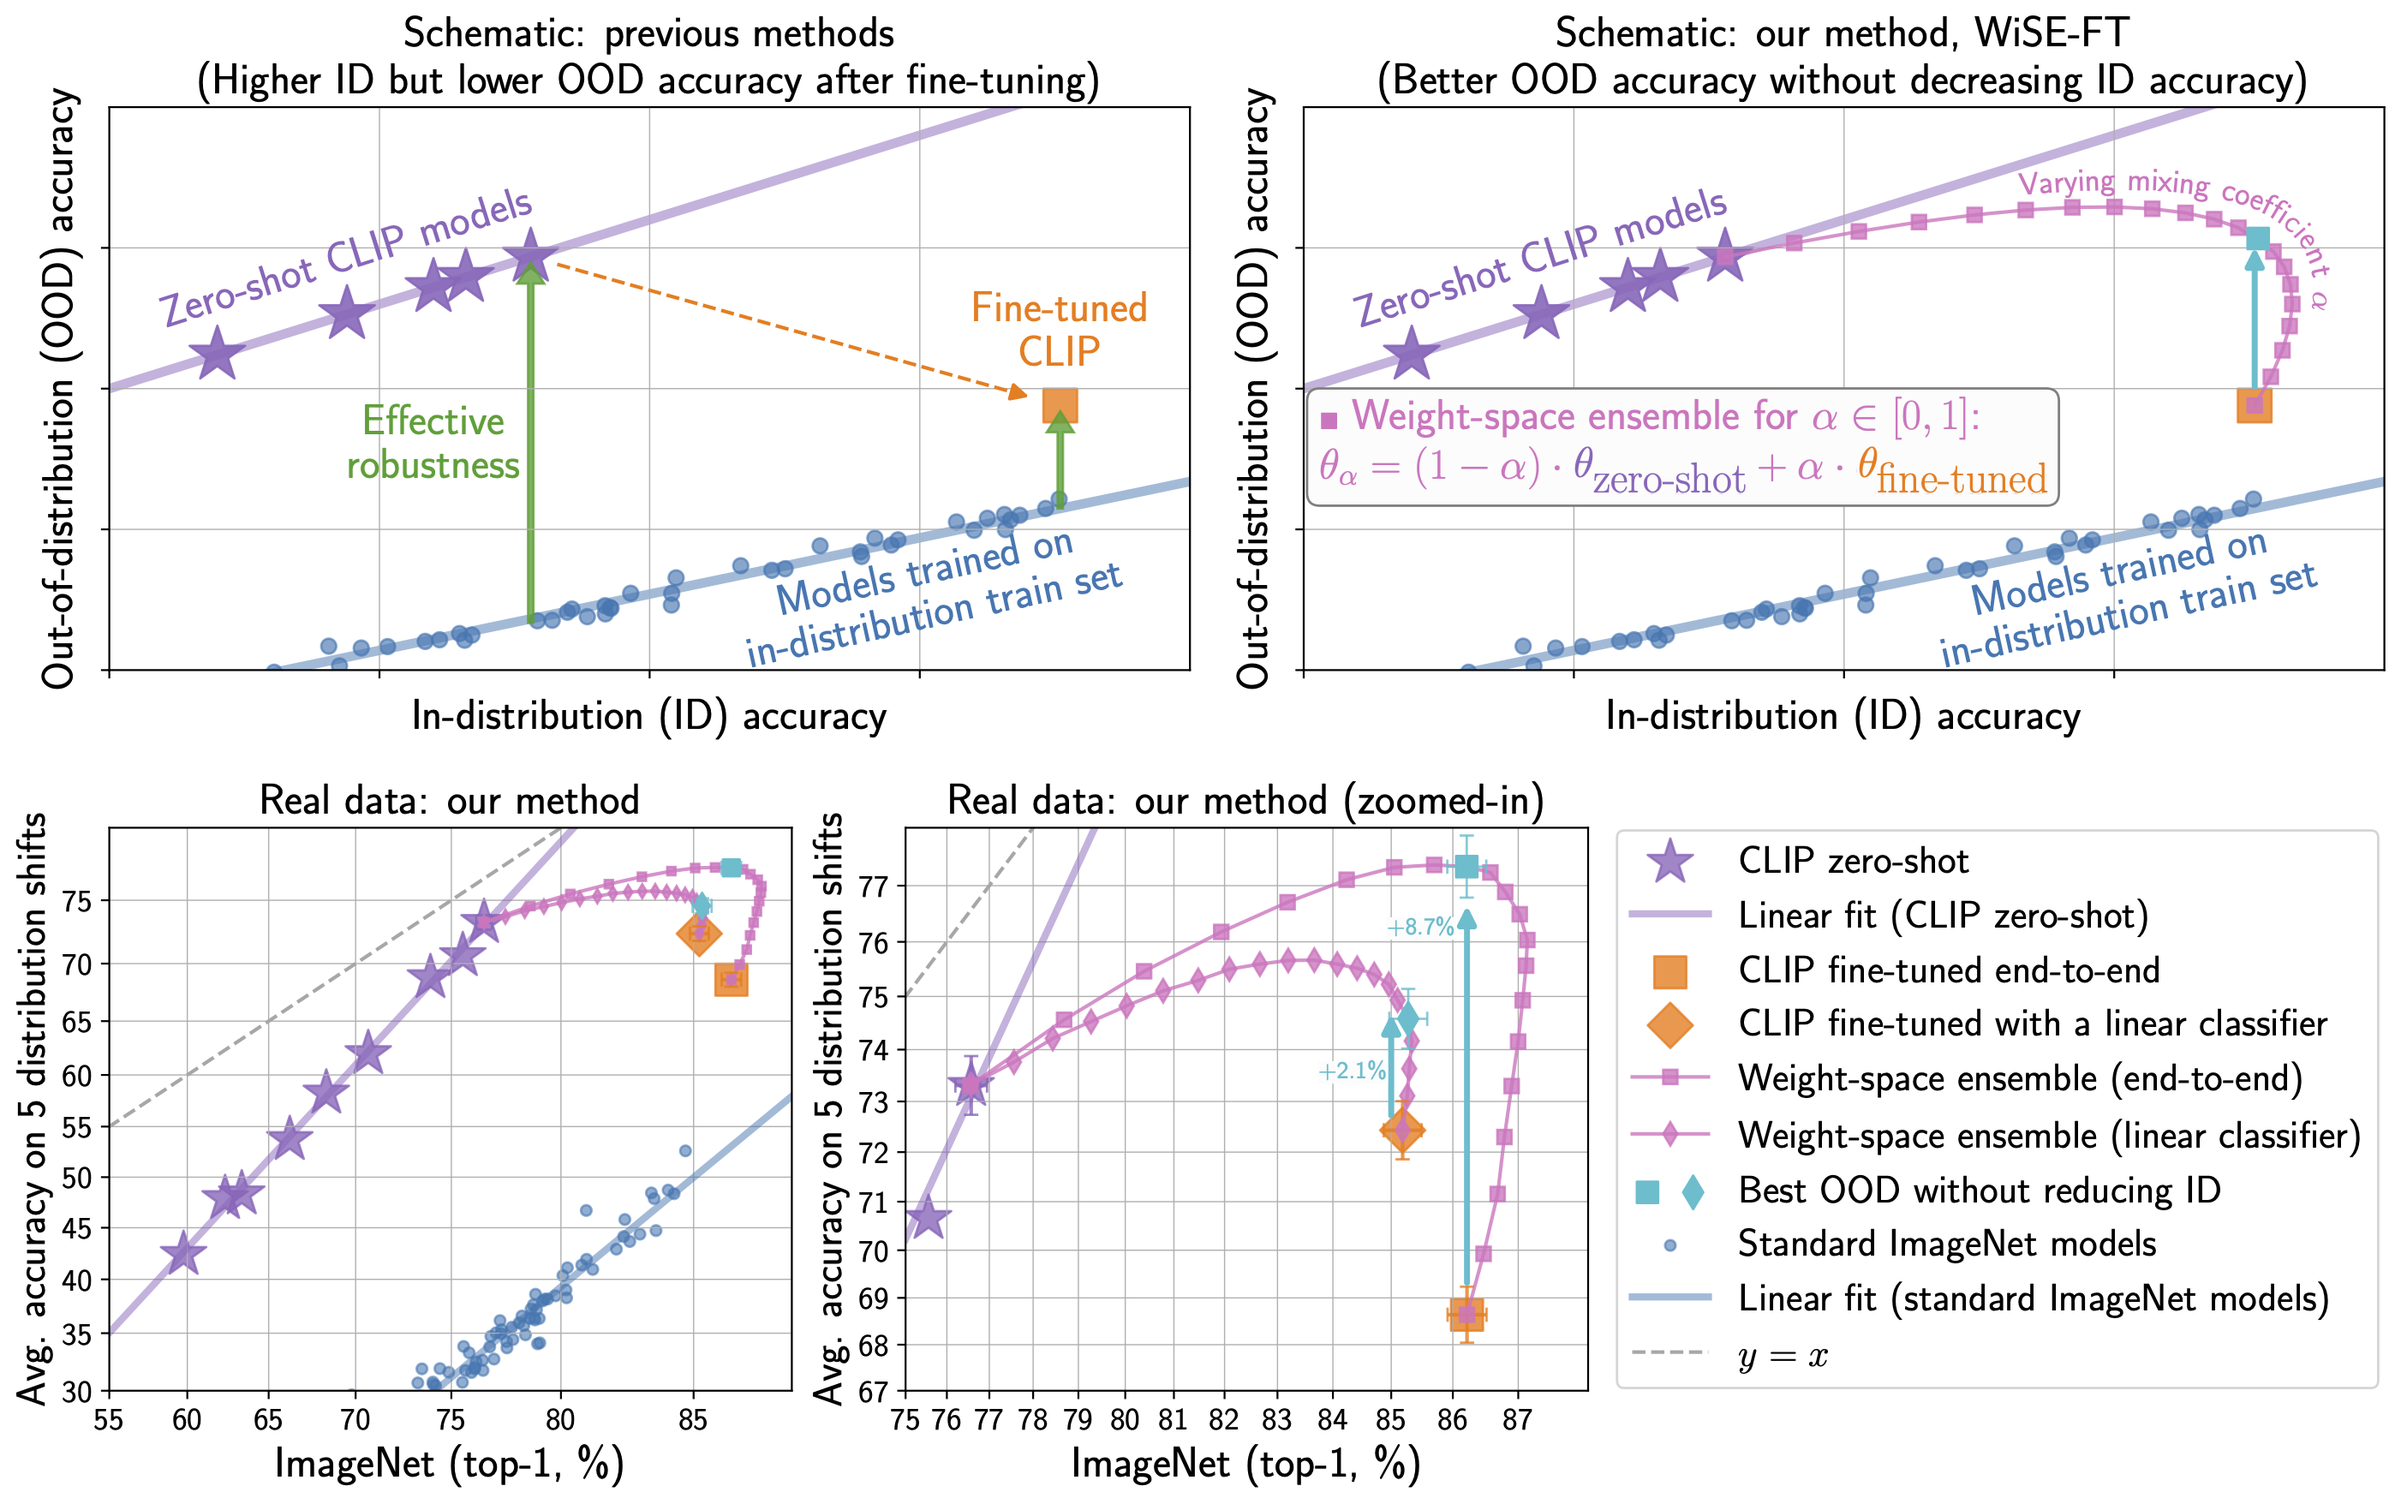
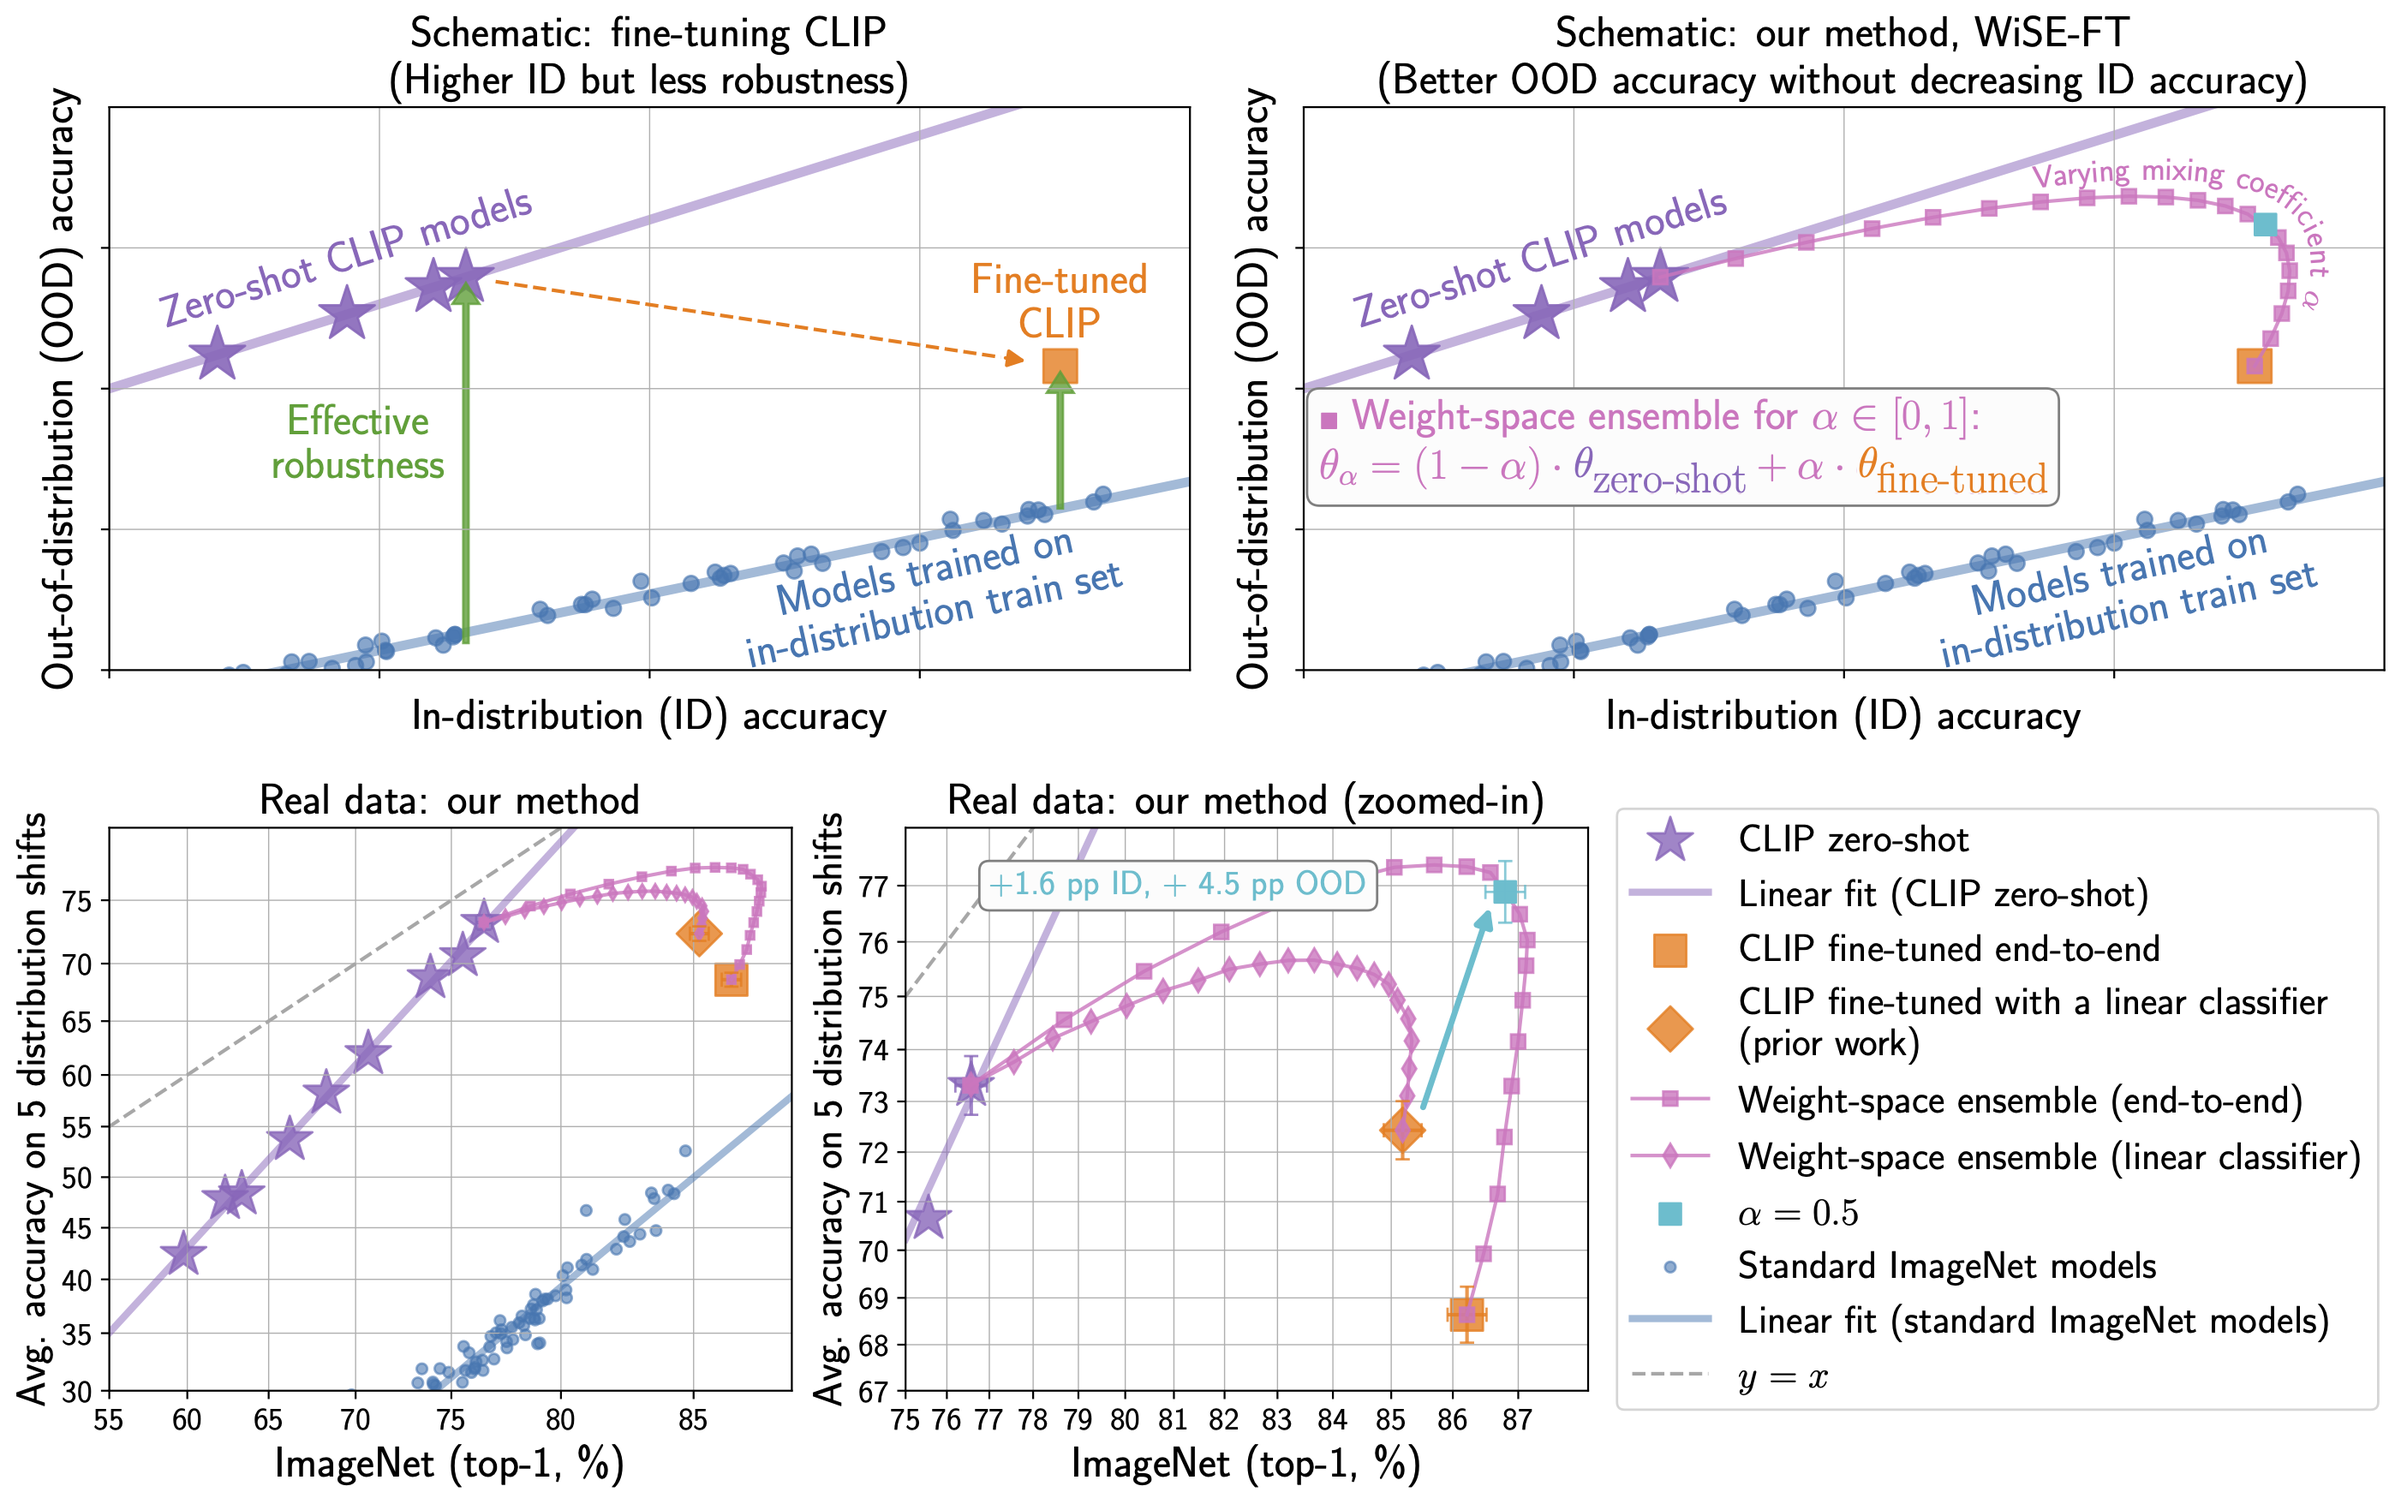
arxiv v2 prep

diff --git a/README.md b/README.md
@@ -3,18 +3,13 @@
 This repository contains code for the paper [Robust fine-tuning of zero-shot models](https://arxiv.org/abs/2109.01903) by Mitchell Wortsman*, Gabriel Ilharco*,  Jong Wook Kim, Mike Li, Simon Kornblith, Rebecca Roelofs, Raphael Gontijo-Lopes, Hannaneh Hajishirzi, Ali Farhadi, Hongseok Namkoong, Ludwig Schmidt.
 
 ### Abstract
-*Large pre-trained models such as CLIP offer consistent accuracy across a range of data distributions when performing zero-shot inference (i.e., without fine-tuning on a specific dataset).  Although existing fine-tuning approaches substantially improve accuracy in-distribution, they also reduce out-of-distribution robustness.  We address this tension by introducing a simple and effective method for improving robustness:  ensembling the weights of the zero-shot and fine-tuned models. Compared to standard fine-tuning, the resulting weight-space ensembles provide large accuracy improvements out-of-distribution, while matching or improving in-distribution accuracy.  On ImageNet and five derived distribution shifts, weight-space ensembles improve out-of-distribution accuracy by 2 to 10 percentage points while increasing in-distribution accuracy by nearly 1 percentage point relative to standard fine-tuning.  These improvements come at no additional computational cost during fine-tuning or inference.*
+*Large pre-trained models such as CLIP or ALIGN offer consistent accuracy across a range of data distributions when performing zero-shot inference (i.e., without fine-tuning on a specific dataset). Although existing fine-tuning approaches substantially improve accuracy in-distribution, they often reduce out-of-distribution robustness. We address this tension by introducing a simple and effective method for improving robustness:  ensembling the weights of the zero-shot and fine-tuned models (WiSE-FT). Compared to standard fine-tuning, WiSE-FT provides large accuracy improvements out-of-distribution, while  preserving high in-distribution accuracy. On ImageNet (in-distribution) and five derived distribution shifts, WiSE-FT improves out-of-distribution accuracy by 4 to 6 percentage points (pp) over prior work while increasing in-distribution accuracy by 1.6 pp. WiSE-FT achieves similarly large robustness improvements (2 to 23 pp) on a diverse set of six further distribution shifts, and in-distribution accuracy gains of 0.8 to 3.3 pp compared to standard fine-tuning on seven commonly used transfer learning datasets. These improvements come at no additional computational cost during fine-tuning or inference.*
 
 ### Summary figure
 
 <p align="center">
 <img src="images/figure1.png" alt="figure1"/>
 </p>
-
-Compared to standard fine-tuning, weight-space ensembles for fine-tuning (WiSE-FT) improve out-of-distribution (OOD) accuracy without decreasing in-distribution (ID) performance.
-Top left: Zero-shot CLIP models exhibit high effective robustness and moderate in-distribution accuracy, while standard fine-tuning (end-to-end or with a linear classifier) attains higher ID accuracy and less effective robustness.
-Top right: Our method linearly interpolates between the zero-shot and fine-tuned models with a mixing coefficient alpha in [0,1].
-Bottom: On five distribution shifts derived from ImageNet (ImageNetV2, ImageNet-R, ImageNet Sketch, ObjectNet, and ImageNet-A), WiSE-FT improves average OOD accuracy by 8.7 percentage points (pp) when fine-tuning end-to-end (+2.1 pp when fine-tuning a linear classifier) while maintaining ID accuracy.
 
 ## Code
 
